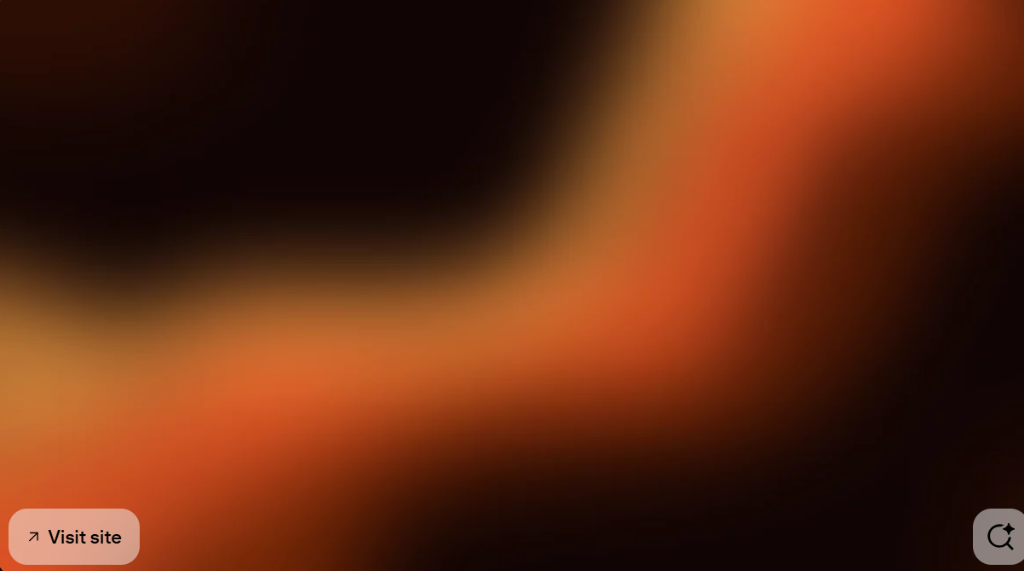
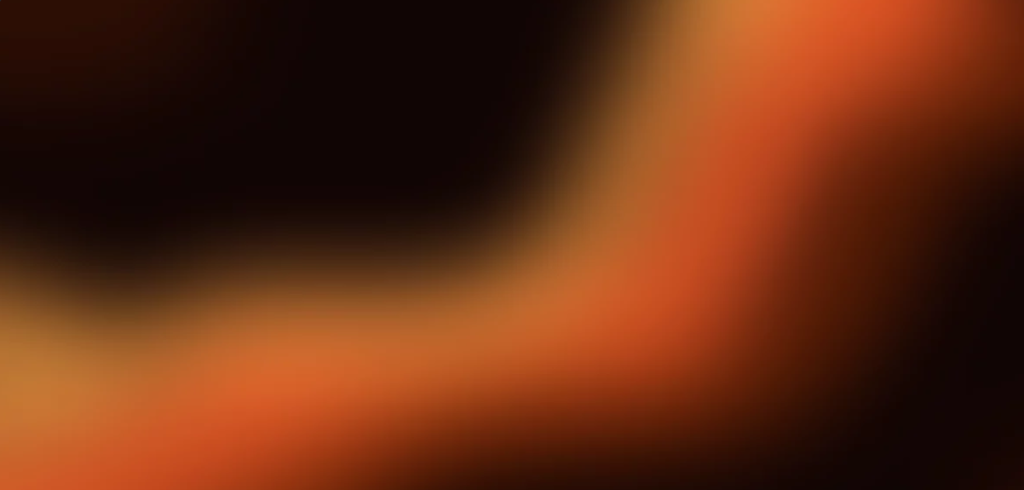
feat: add scroll down transition and background blend to hero section

diff --git a/components/Home/MyName/MyName.tsx b/components/Home/MyName/MyName.tsx
@@ -2,6 +2,7 @@ import React from "react";
 import { motion } from "../../../node_modules/framer-motion/dist/framer-motion"; // Or import { motion } from "framer-motion";
 import Link from "next/link"; // Link component is imported but not used in this snippet. Remove if not needed elsewhere.
 import { useRouter } from "next/router"; // useRouter is imported but not used. Remove if not needed.
+import { Link as ReactScrollLink } from "react-scroll";
 
 interface MyNameProps {
   finishedLoading: boolean;
@@ -68,7 +69,7 @@ const MyName: React.FC<MyNameProps> = props => {
           opacity: { delay: props.finishedLoading ? 0 : 2.8, duration: props.finishedLoading ? 0 : 0.2 },
           y: { delay: props.finishedLoading ? 0 : 2.8, duration: props.finishedLoading ? 0 : 0.2 },
         }}
-        className="mt-12"
+        className="mt-12 text-center md:text-left"
       >
         <a href={"/resume.pdf"} target={"_blank"} rel="noreferrer">
           <button className="bg-AAprimary text-AAsecondary border rounded px-4 sm:px-8 py-3 sm:py-4 border-AAsecondary transition-transform duration-300 ease-out resume-button-hover">
@@ -76,6 +77,40 @@ const MyName: React.FC<MyNameProps> = props => {
           </button>
         </a>
       </motion.div>
+
+      {props.finishedLoading && (
+        <motion.div
+          initial={{ opacity: 0, y: 20 }}
+          animate={{ opacity: 1, y: 0 }}
+          transition={{ delay: props.finishedLoading ? 0 : 3.0, duration: 0.5 }}
+          className="absolute bottom-6 left-1/2 -translate-x-1/2 flex flex-col items-center justify-center cursor-pointer group z-10"
+        >
+          <ReactScrollLink to="aboutSection" spy={true} smooth={true} offset={-100} duration={600}>
+            <div className="flex flex-col items-center space-y-2">
+              <span className="text-xs font-mono text-gray-500 group-hover:text-AAsecondary transition-colors duration-300 tracking-widest uppercase">
+                Scroll Down
+              </span>
+              <div className="w-6 h-10 border-2 border-gray-500 group-hover:border-AAsecondary rounded-full flex justify-center p-1 transition-colors duration-300">
+                <motion.div
+                  animate={{
+                    y: [0, 12, 0],
+                  }}
+                  transition={{
+                    duration: 1.5,
+                    repeat: Infinity,
+                    repeatType: "loop",
+                    ease: "easeInOut",
+                  }}
+                  className="w-1.5 h-3 bg-gray-500 group-hover:bg-AAsecondary rounded-full transition-colors duration-300"
+                />
+              </div>
+            </div>
+          </ReactScrollLink>
+        </motion.div>
+      )}
+
+      {/* Background blend overlay between Hero and About Me */}
+      <div className="absolute bottom-0 left-0 w-full h-32 bg-gradient-to-t from-AAprimary to-transparent pointer-events-none z-0" />
     </div>
   );
 };